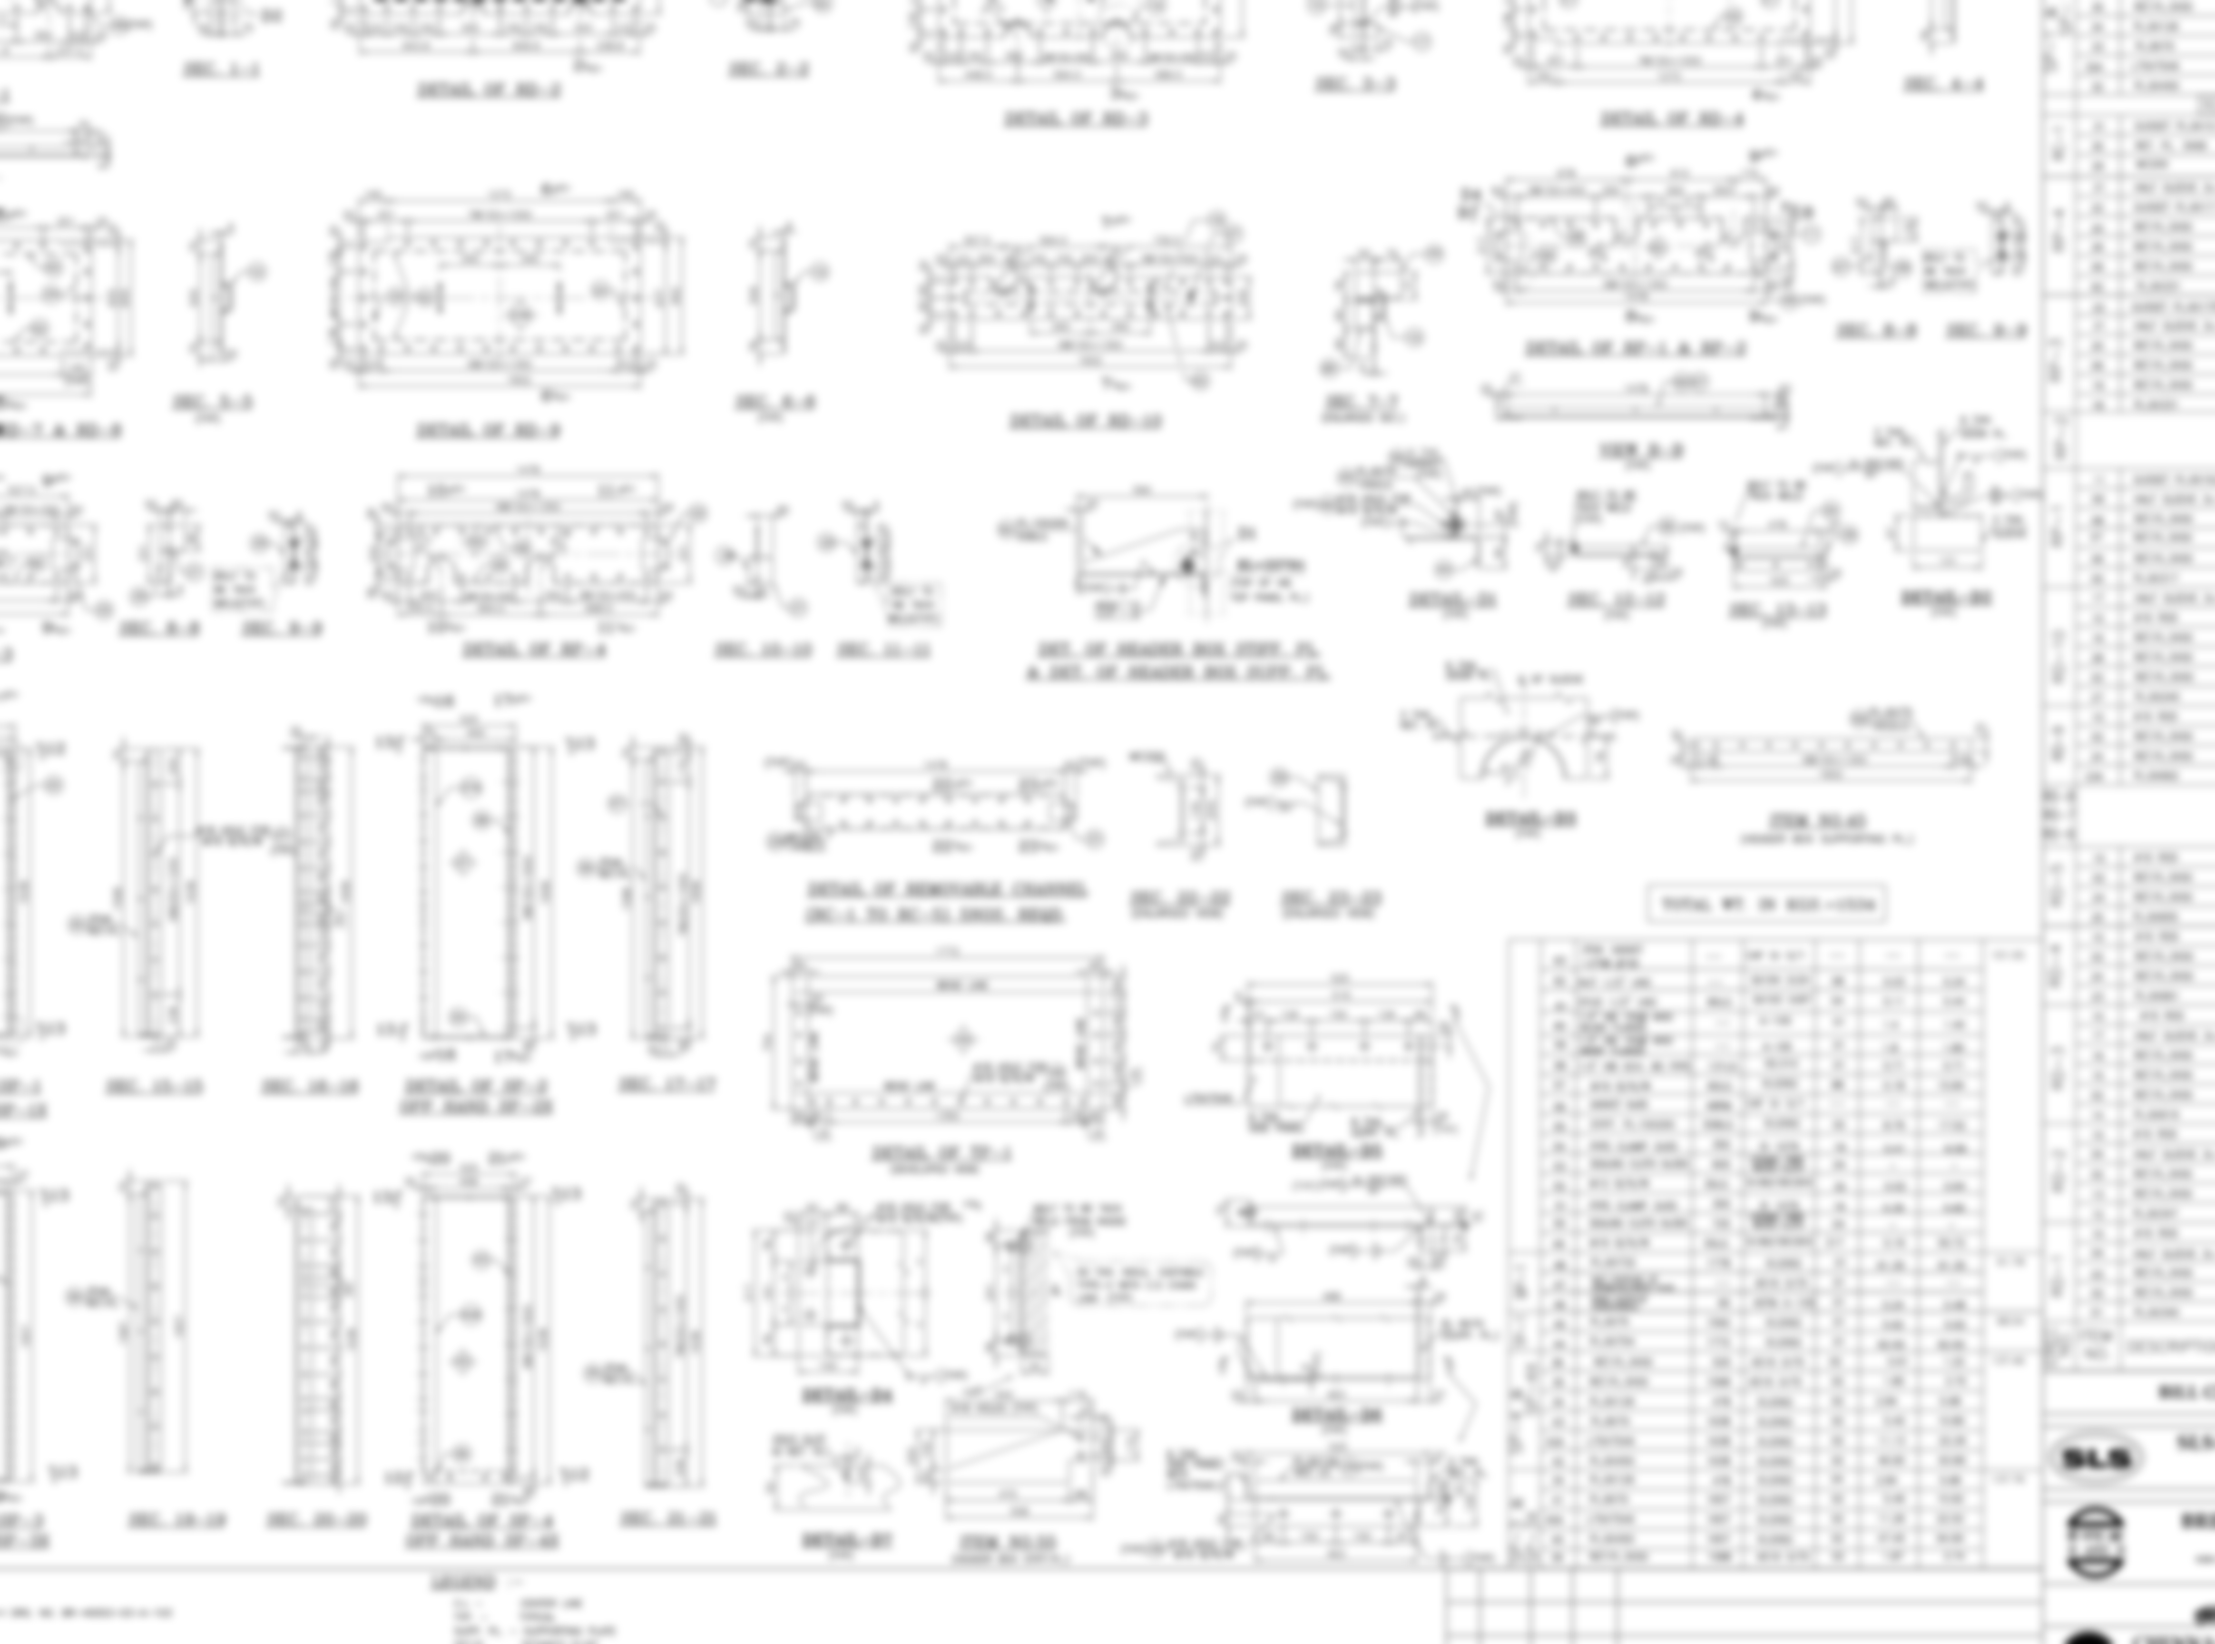
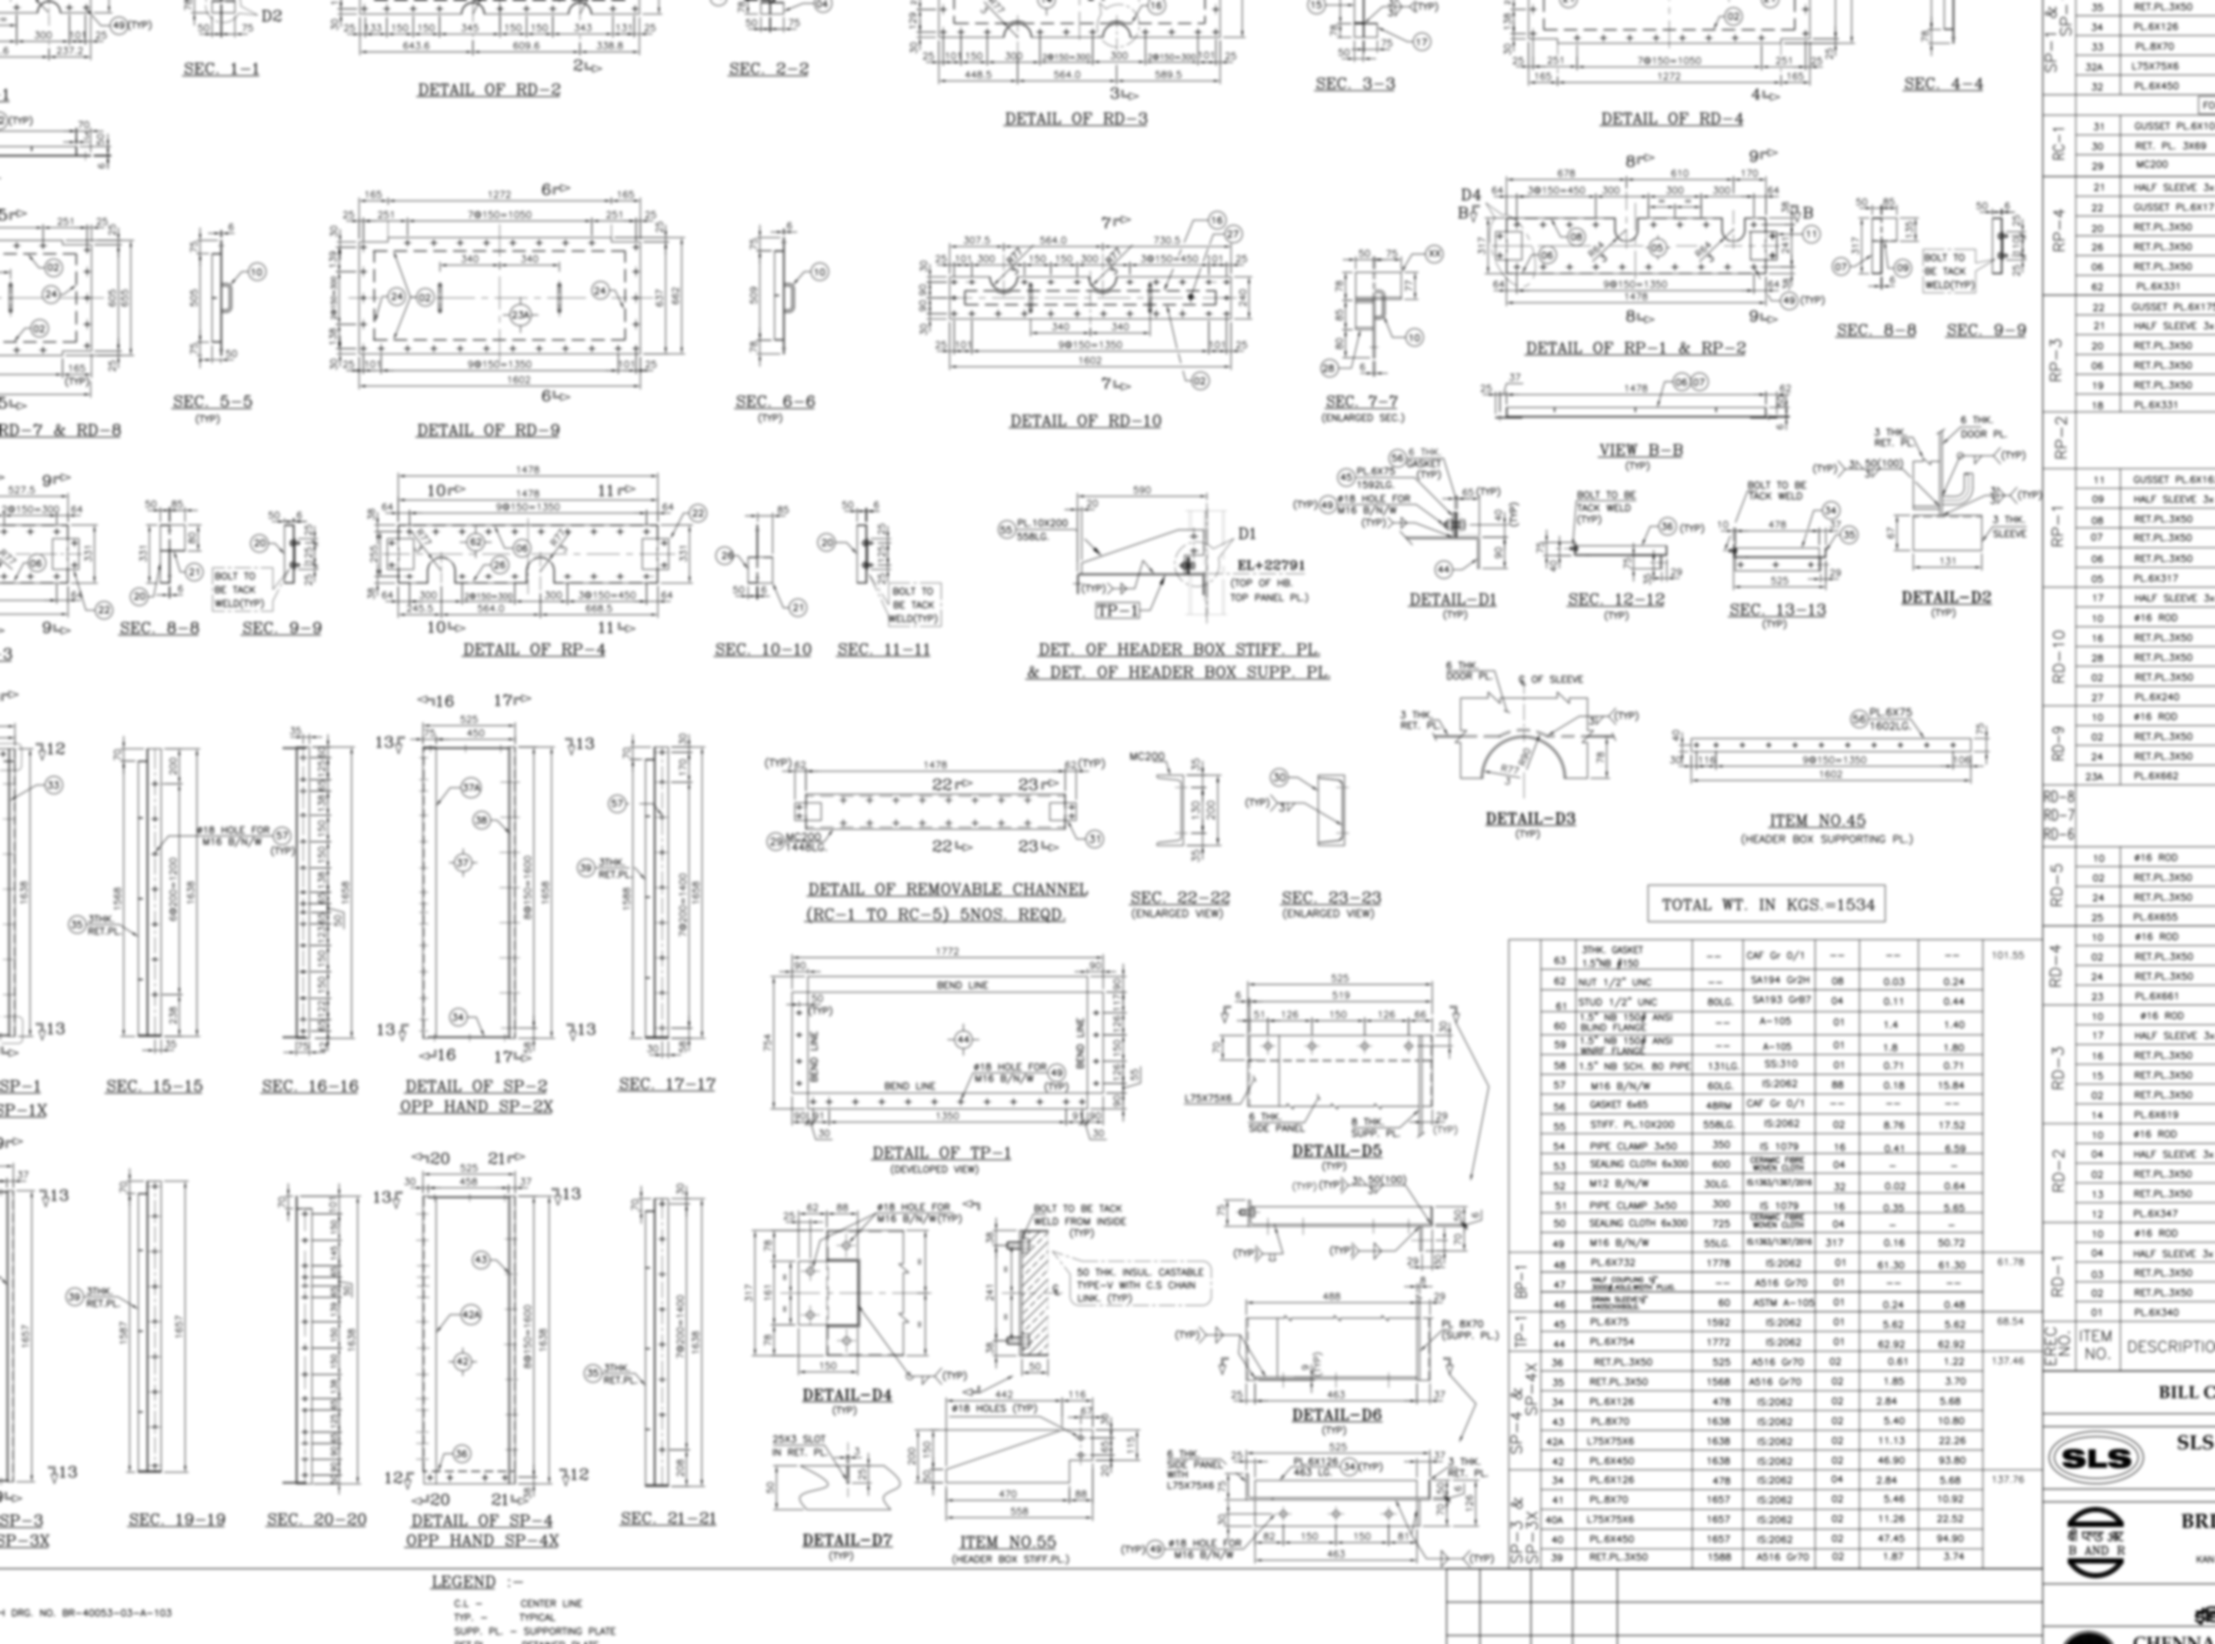
Update gallery drawing blur settings: EIL GA drawings are completely clear, and other drawings are mildly blurred (radius=3.0) on disk, and removed React-level CSS blur filters

diff --git a/frontend/src/pages/gallery.jsx b/frontend/src/pages/gallery.jsx
@@ -768,7 +768,7 @@ export default function Gallery() {
                       <img
                         src={`/gallery/${draw.file}`}
                         alt={draw.title}
-                        className="w-full h-full object-cover opacity-90 group-hover:scale-102 transition-transform duration-300 filter blur-[3px] select-none pointer-events-none"
+                        className="w-full h-full object-cover opacity-90 group-hover:scale-102 transition-transform duration-300 select-none pointer-events-none"
                       />
                       <div className="absolute inset-0 bg-black/20 group-hover:bg-black/0 transition-colors" />
                       <div className="absolute top-3 right-3 w-8 h-8 bg-white/95 text-[#0a1628] flex items-center justify-center shadow-sm">
@@ -1015,7 +1015,7 @@ export default function Gallery() {
                 <img
                   src={`/gallery/${selectedImg.file}`}
                   alt={selectedImg.title}
-                  className="max-w-full max-h-full object-contain filter blur-[3px] select-none pointer-events-none"
+                  className="max-w-full max-h-full object-contain select-none pointer-events-none"
                 />
               </div>
               <div className="text-white mt-4 flex items-start justify-between gap-6">
